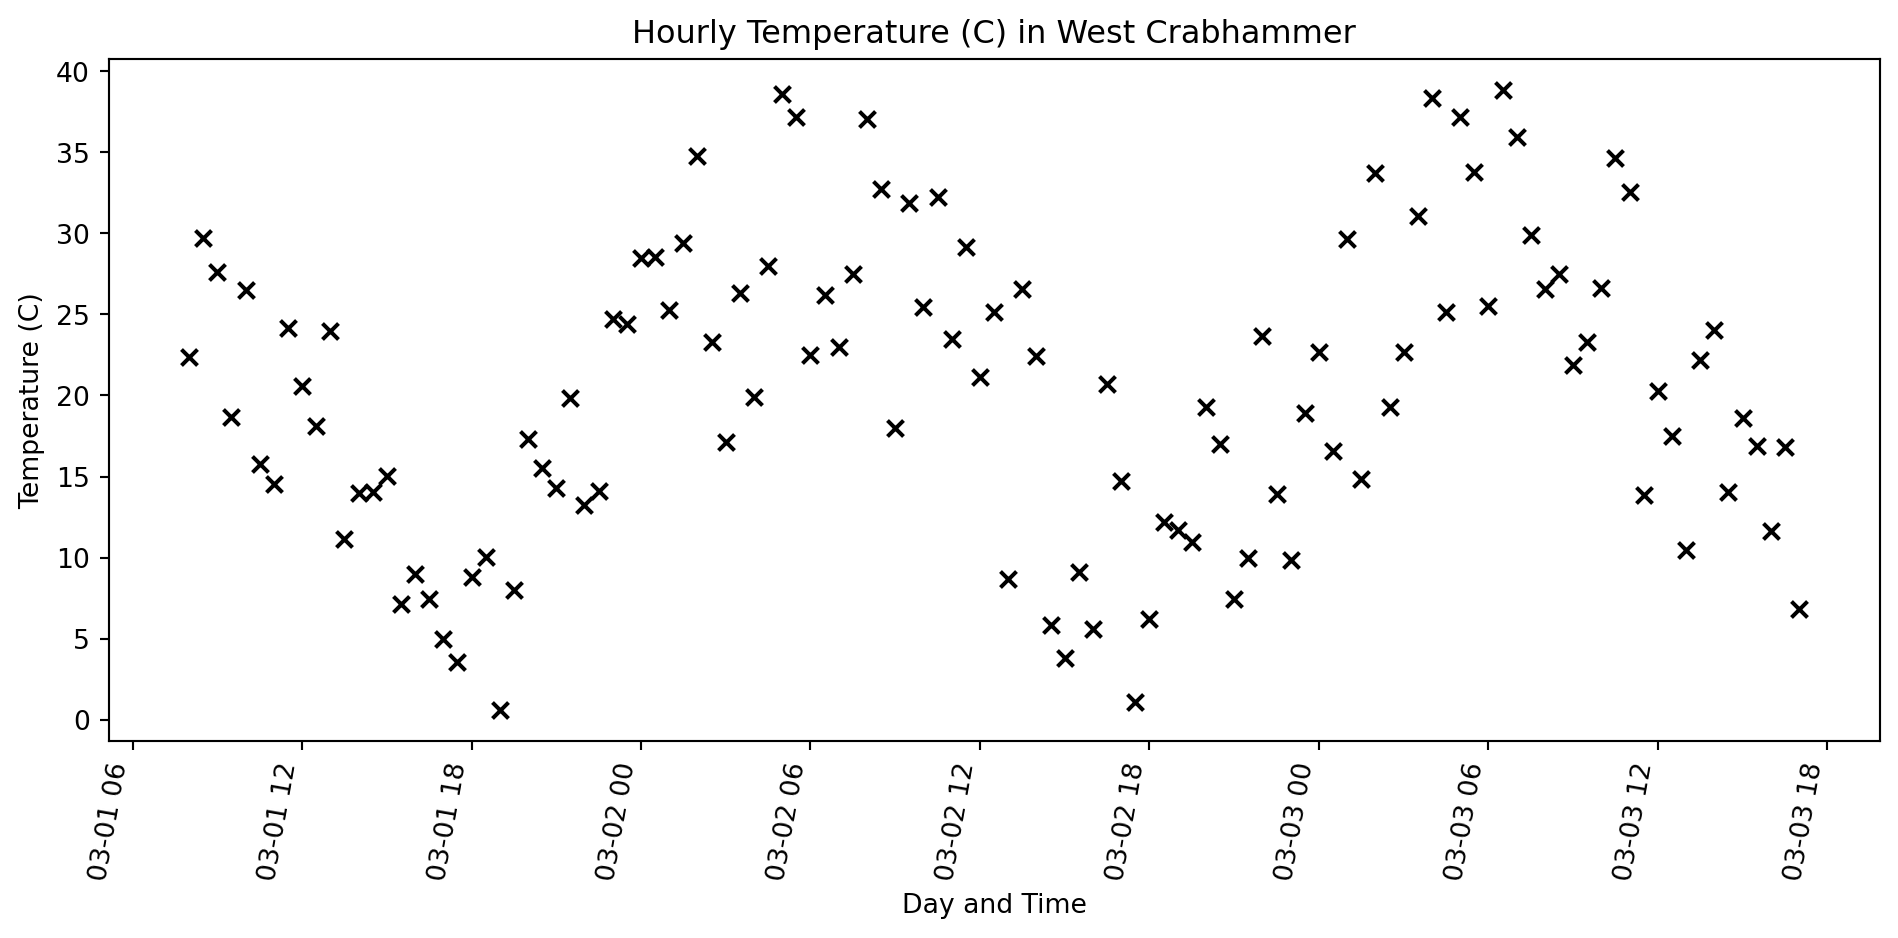
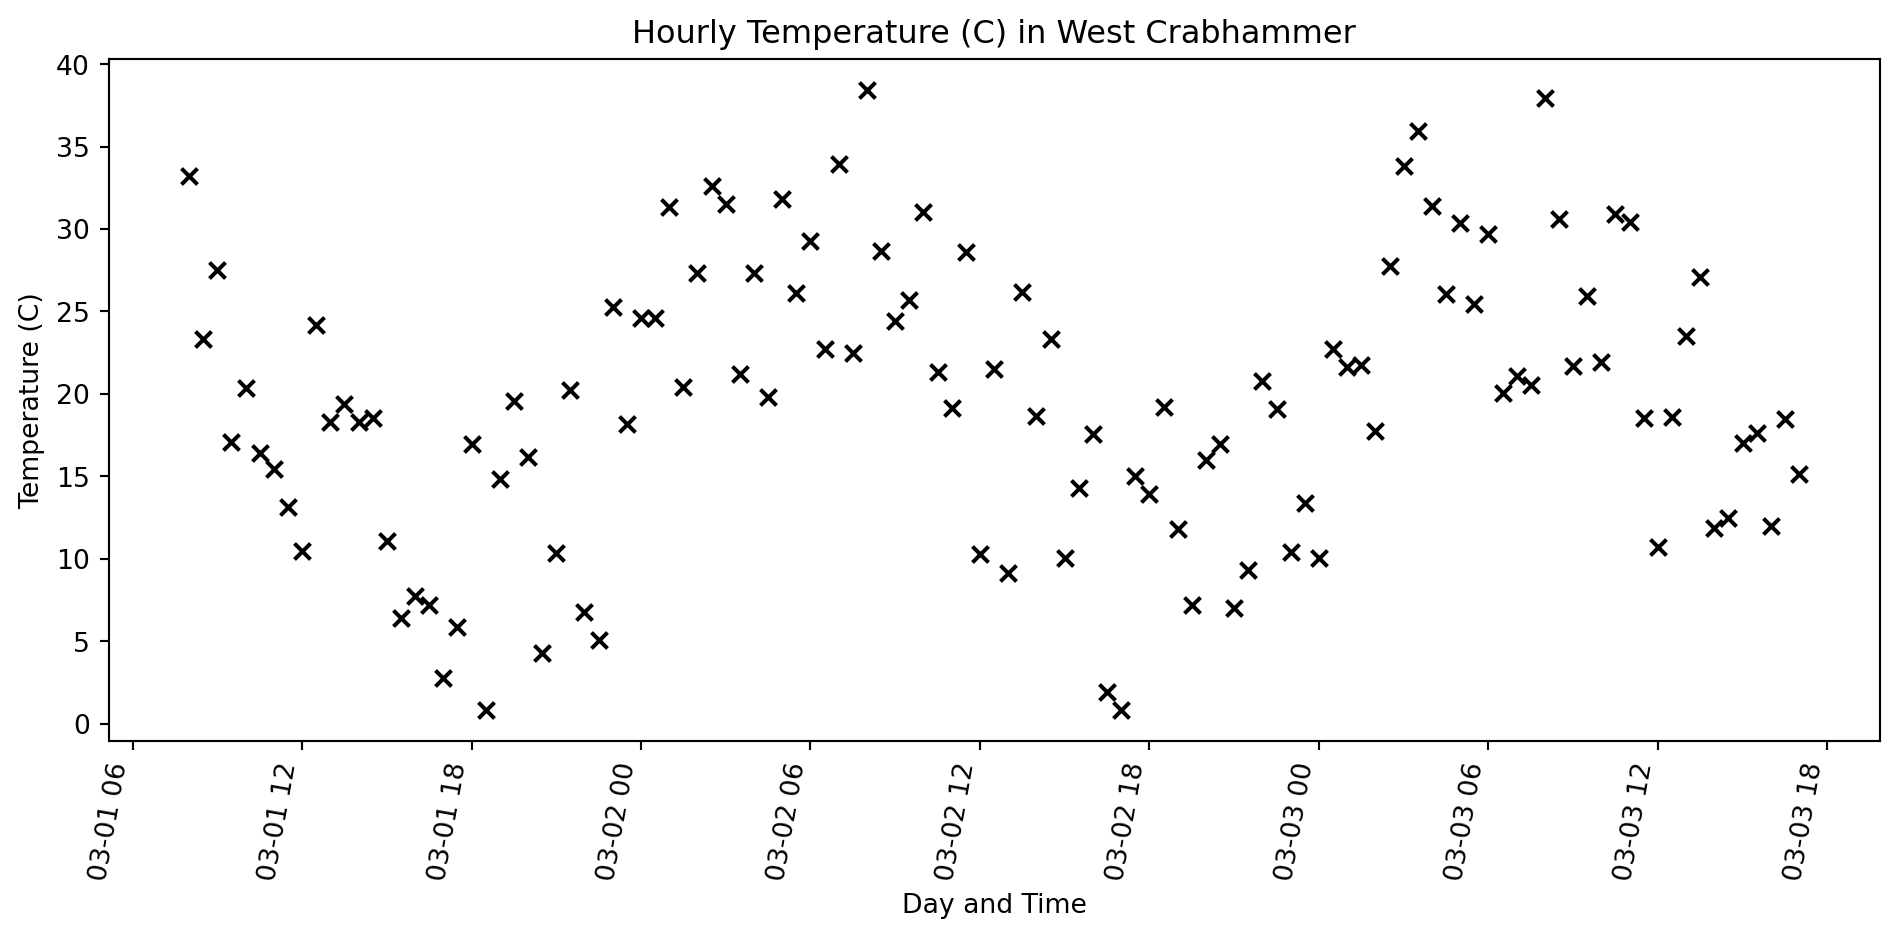
index changed

diff --git a/docs/python_geospatial_basics.html b/docs/python_geospatial_basics.html
@@ -261,7 +261,7 @@
 <section id="basic-numbers" class="slide level2">
 <h2>Basic Numbers</h2>
 <p>Floats and Ints don’t do anything all that surprising</p>
-<div id="6bb2742d" class="cell columns column-output-location" data-execution_count="1">
+<div id="bd1b2c21" class="cell columns column-output-location" data-execution_count="1">
 <div class="column">
 <div class="sourceCode cell-code" id="cb1"><pre class="sourceCode numberSource python number-lines code-with-copy"><code class="sourceCode python"><span id="cb1-1"><a></a>a <span class="op">=</span> <span class="dv">2</span> <span class="op">+</span> <span class="dv">2</span></span>
 <span id="cb1-2"><a></a>b <span class="op">=</span> <span class="fl">2.0</span> <span class="op">+</span> <span class="fl">2.0</span></span>
@@ -288,7 +288,7 @@ but 5 // 4 is 1</code></pre>
 <section id="sequences" class="slide level2">
 <h2>Sequences</h2>
 <p>Lists, tuples, and strings ae all sequences</p>
-<div id="aaf6619a" class="cell columns column-output-location" data-execution_count="2">
+<div id="eb481e6c" class="cell columns column-output-location" data-execution_count="2">
 <div class="column">
 <div class="sourceCode cell-code" id="cb3"><pre class="sourceCode numberSource python number-lines code-with-copy"><code class="sourceCode python"><span id="cb3-1"><a></a><span class="co"># a list</span></span>
 <span id="cb3-2"><a></a>a_list <span class="op">=</span> [<span class="dv">1</span>, <span class="dv">2</span>, <span class="dv">3</span>, <span class="dv">4</span>, <span class="dv">5</span>, <span class="dv">6</span>, <span class="dv">7</span>, <span class="dv">8</span>, <span class="dv">9</span>]</span>
@@ -335,7 +335,7 @@ neushorn?</code></pre>
 </section>
 <section id="dictionaries" class="slide level2">
 <h2>Dictionaries</h2>
-<div id="f761f61e" class="cell columns column-output-location" data-execution_count="3">
+<div id="9d6b0d4b" class="cell columns column-output-location" data-execution_count="3">
 <div class="column">
 <div class="sourceCode cell-code" id="cb5"><pre class="sourceCode numberSource python number-lines code-with-copy"><code class="sourceCode python"><span id="cb5-1"><a></a>pets <span class="op">=</span> {<span class="st">'honden'</span>: <span class="dv">26</span>, <span class="st">'katten'</span>: <span class="dv">100</span>}</span>
 <span id="cb5-2"><a></a></span>
@@ -354,7 +354,7 @@ neushorn?</code></pre>
 </section>
 <section id="iterating" class="slide level2">
 <h2>Iterating</h2>
-<div id="5ce38348" class="cell columns column-output-location" data-execution_count="4">
+<div id="ca36497d" class="cell columns column-output-location" data-execution_count="4">
 <div class="column">
 <div class="sourceCode cell-code" id="cb7"><pre class="sourceCode numberSource python number-lines code-with-copy"><code class="sourceCode python"><span id="cb7-1"><a></a>a <span class="op">=</span> [<span class="dv">1</span>, <span class="dv">2</span>, <span class="dv">3</span>, <span class="dv">4</span>, <span class="dv">5</span>, <span class="dv">6</span>, <span class="dv">7</span>, <span class="dv">8</span>, <span class="dv">9</span>]</span>
 <span id="cb7-2"><a></a></span>
@@ -383,7 +383,7 @@ is the same as
 </section>
 <section id="pandas-dataframe" class="slide level2 scrollable">
 <h2>Pandas DataFrame</h2>
-<div id="188fc460" class="cell columns column-output-location" data-execution_count="5">
+<div id="c0af96a0" class="cell columns column-output-location" data-execution_count="5">
 <div class="column">
 <div class="sourceCode cell-code" id="cb9"><pre class="sourceCode numberSource python number-lines code-with-copy"><code class="sourceCode python"><span id="cb9-1"><a></a><span class="im">from</span> datetime <span class="im">import</span> datetime, timedelta</span>
 <span id="cb9-2"><a></a><span class="im">from</span> random <span class="im">import</span> uniform</span>
@@ -446,27 +446,27 @@ is the same as
 <tr class="odd">
 <td data-quarto-table-cell-role="th">0</td>
 <td>2025-03-01 08:00:00</td>
-<td>28.621946</td>
+<td>38.437555</td>
 </tr>
 <tr class="even">
 <td data-quarto-table-cell-role="th">1</td>
 <td>2025-03-01 08:30:00</td>
-<td>31.223152</td>
+<td>26.330082</td>
 </tr>
 <tr class="odd">
 <td data-quarto-table-cell-role="th">2</td>
 <td>2025-03-01 09:00:00</td>
-<td>30.662470</td>
+<td>32.308871</td>
 </tr>
 <tr class="even">
 <td data-quarto-table-cell-role="th">3</td>
 <td>2025-03-01 09:30:00</td>
-<td>27.054446</td>
+<td>22.650346</td>
 </tr>
 <tr class="odd">
 <td data-quarto-table-cell-role="th">4</td>
 <td>2025-03-01 10:00:00</td>
-<td>27.760315</td>
+<td>20.396795</td>
 </tr>
 </tbody>
 </table>
@@ -477,7 +477,7 @@ is the same as
 </section>
 <section id="pandas-dataframe-cont." class="slide level2 scrollable">
 <h2>Pandas DataFrame Cont.</h2>
-<div id="dda8431c" class="cell columns column-output-location" data-execution_count="6">
+<div id="9bcf2112" class="cell columns column-output-location" data-execution_count="6">
 <div class="column">
 <div class="sourceCode cell-code" id="cb10"><pre class="sourceCode numberSource python number-lines code-with-copy"><code class="sourceCode python"><span id="cb10-1"><a></a><span class="im">from</span> datetime <span class="im">import</span> datetime, timedelta</span>
 <span id="cb10-2"><a></a><span class="im">from</span> random <span class="im">import</span> uniform</span>
@@ -614,7 +614,7 @@ Figure&nbsp;1: A line plot on a polar axis
 </section>
 <section id="polygon" class="slide level2">
 <h2>Polygon</h2>
-<div id="2de3344e" class="cell columns column-output-location" data-execution_count="8">
+<div id="a7bff3cc" class="cell columns column-output-location" data-execution_count="8">
 <div class="column">
 <div class="sourceCode cell-code" id="cb12"><pre class="sourceCode numberSource python number-lines code-with-copy"><code class="sourceCode python"><span id="cb12-1"><a></a><span class="im">from</span> shapely <span class="im">import</span> Polygon</span>
 <span id="cb12-2"><a></a></span>
@@ -641,7 +641,7 @@ Figure&nbsp;1: A line plot on a polar axis
 <section id="reading-files" class="slide level2">
 <h2>Reading Files</h2>
 <p>Here we will read a geojson using the <code>read_file</code> method.</p>
-<div id="2234e4e9" class="cell columns column-output-location" data-execution_count="9">
+<div id="696d4b5c" class="cell columns column-output-location" data-execution_count="9">
 <div class="column">
 <div class="sourceCode cell-code" id="cb14"><pre class="sourceCode numberSource python number-lines code-with-copy"><code class="sourceCode python"><span id="cb14-1"><a></a><span class="im">from</span> pathlib <span class="im">import</span> Path</span>
 <span id="cb14-2"><a></a><span class="im">import</span> geopandas <span class="im">as</span> gpd</span>

diff --git a/docs/intro.html b/docs/intro.html
@@ -133,7 +133,13 @@
 </section>
 <section id="section" class="slide level2">
 <h2></h2>
-<p>Today we will cover a few of the tools we will be using this quarter, which should &amp;#129310 be installed. + git + conda + VScode + Rstudio + QGIS + GDAL</p>
+<p>Today we will cover a few of the tools we will be using this quarter, which should &amp;#129310 be installed.<br>
++ git<br>
++ conda<br>
++ VScode<br>
++ Rstudio<br>
++ QGIS<br>
++ GDAL</p>
 
 
 </section></section>
